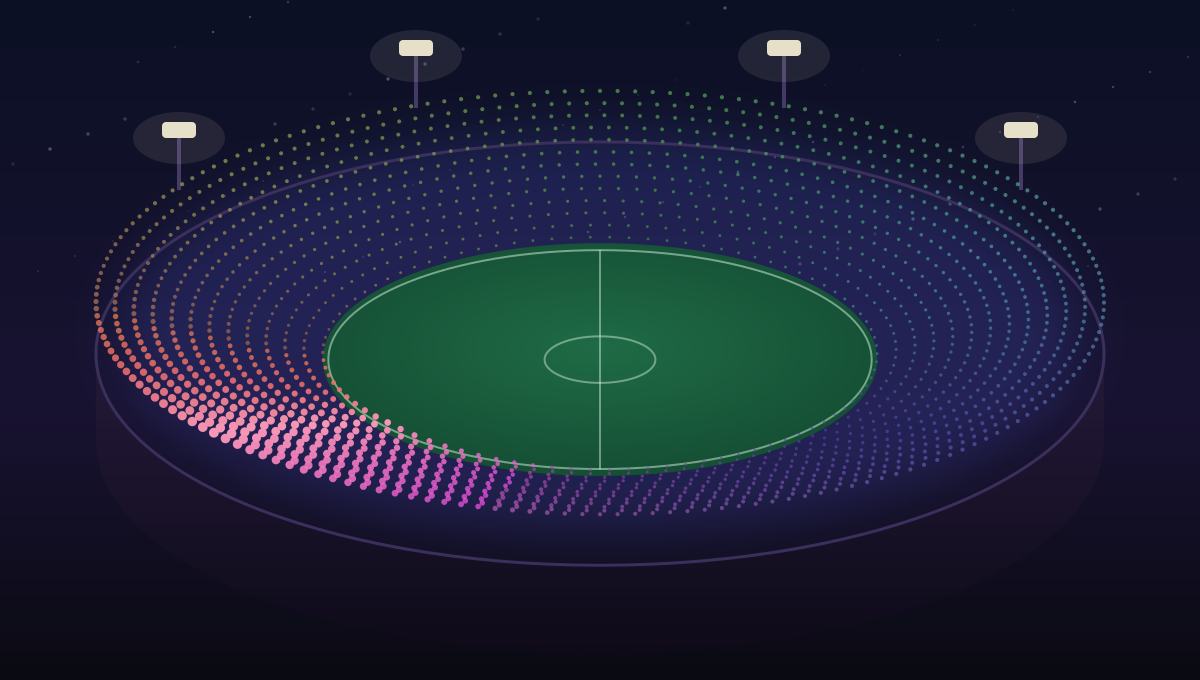
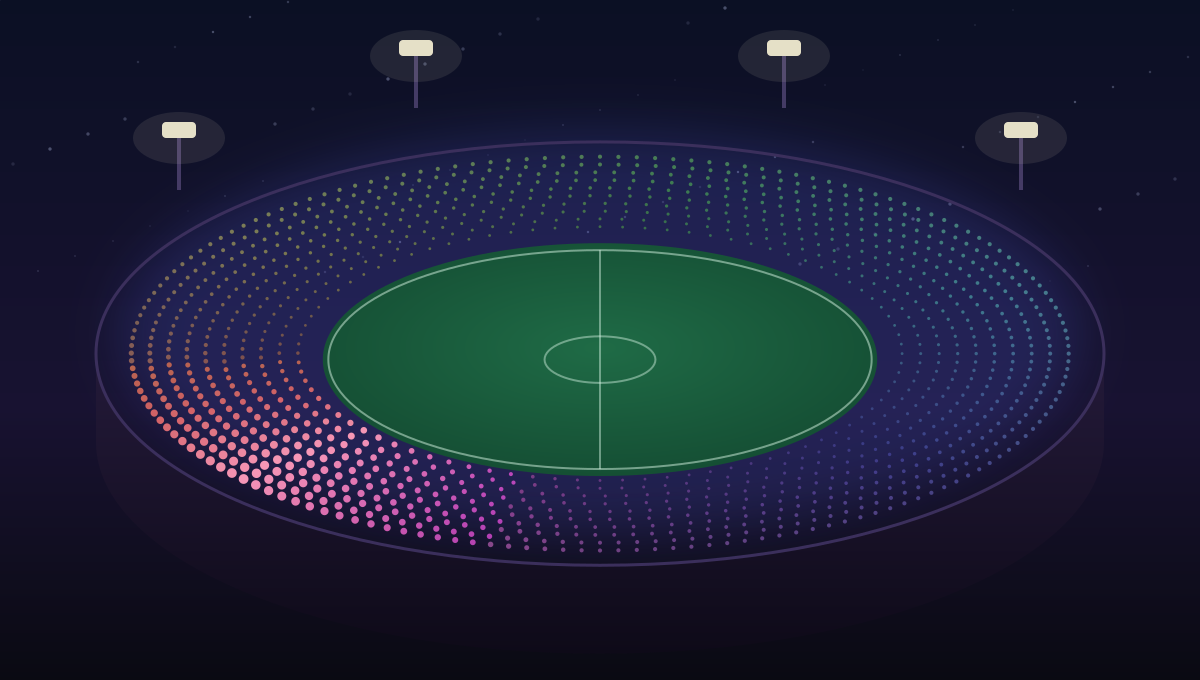
polish the guide: torus figure, unified equation panel, and control affordances
Section headings get real breathing room above them, the mel-transcoder sidebar
gets a bold heading and smaller body, and the equation now shares one dark panel
with its variable legend — symbols stepped up again — so the terms and their
explanations read as a single object.

Adds a torus figure to the section that argues for one: the same phase palette as
the crowd, wrapped onto the surface the grid actually forms, showing that rows
and columns both close on themselves. The stadium seating is re-seated inside the
bowl — no vertical lift, rings bounded by the touchline and the rim — so the far
rows tuck under the far rim and the near rows meet the near one instead of
floating over the pitch.

Controls: primary buttons get a clear hover, sliders get pointer and grab
cursors, and the two buttons that swap their label for Stop hold their width
instead of collapsing mid-click.

diff --git a/src/components/resonant/ResonantArticle.tsx b/src/components/resonant/ResonantArticle.tsx
@@ -9,7 +9,7 @@ const REPO = 'https://github.com/ekryski/resonant'
 const TYPE = [
   'prose-lg',
   'prose-headings:tracking-tight',
-  'prose-h2:mt-0 prose-h2:mb-6 prose-h2:text-5xl prose-h2:font-extrabold sm:prose-h2:text-6xl',
+  'prose-h2:mt-20 prose-h2:mb-6 prose-h2:text-5xl prose-h2:font-extrabold sm:prose-h2:text-6xl',
   'prose-h3:mt-10 prose-h3:mb-3 prose-h3:text-2xl prose-h3:font-bold sm:prose-h3:text-3xl',
   'prose-p:my-4 prose-ul:my-4 prose-ol:my-4 prose-li:my-1.5',
 ].join(' ')
@@ -188,7 +188,7 @@ export function ResonantArticle() {
       <figure className="my-10">
         <div className="panel" style={{ marginBottom: 16 }}>
           <div style={{ display: 'flex', gap: 12, flexWrap: 'wrap', alignItems: 'center' }}>
-            <button type="button" className="action primary" id="melPlayBtn">
+            <button type="button" className="action primary toggle wide" id="melPlayBtn">
               ▶ Play and watch the bands
             </button>
             <span className="tag" id="melPlayStatus">showing the clip average</span>
@@ -253,8 +253,10 @@ export function ResonantArticle() {
 
       <Prose className={TYPE}>
         <div className="my-6 rounded-r-xl border-l-2 border-violet-500 bg-violet-500/5 px-5 py-4 dark:border-violet-400 dark:bg-violet-400/5">
-          <h4>Sidebar: what is a “mel transcoder”?</h4>
-          <p>
+          <h4 className="!mt-0 !mb-3 !text-base !font-bold !tracking-normal !normal-case !text-zinc-800 dark:!text-zinc-100">
+            Sidebar: what is a “mel transcoder”?
+          </h4>
+          <p className="!my-0 !text-[15px] !leading-relaxed">
             A neural network that <em>manufactures</em> a mel spectrogram from something
             coarser. The motivating case is privacy: an always-on sensor in a hospital ward
             or a street can be built to record only very coarse acoustic energy — say
@@ -505,13 +507,14 @@ export function ResonantArticle() {
       </Prose>
 
       <figure className="my-10">
-        <div className="equation">
+        <div className="panel">
+          <div className="equation !border-0 !bg-transparent !p-0 !pb-1">
           dθ<sub>i</sub>/dt = <span className="tDrift">ω<sub>i</sub></span>{' + '}
           <span className="tCouple">Σ<sub>j</sub> K(i−j) · sin(θ<sub>j</sub> − θ<sub>i</sub>)</span>{' − '}
           <span className="tPin">λ · sin(θ<sub>i</sub>)</span>{' + '}
           <span className="tDrive">F<sub>i</sub>(t)</span>
-        </div>
-        <div className="mt-5 grid gap-4 text-[15px] leading-relaxed text-zinc-600 dark:text-zinc-400 [&>div]:grid [&>div]:grid-cols-[112px_1fr] [&>div]:items-start [&>div]:gap-3 [&_b]:font-semibold [&_b]:text-zinc-800 dark:[&_b]:text-zinc-100 [&_span:first-child]:font-mono [&_span:first-child]:text-base [&_span:first-child]:font-semibold">
+          </div>
+          <div className="mt-6 grid gap-4 border-t border-zinc-700/60 pt-6 text-[15px] leading-relaxed text-zinc-300 [&>div]:grid [&>div]:grid-cols-[136px_1fr] [&>div]:items-start [&>div]:gap-4 [&_b]:font-semibold [&_b]:text-white [&_span:first-child]:font-mono [&_span:first-child]:text-xl [&_span:first-child]:font-semibold">
           <div>
             <span className="tDrift">ω</span>
             <span><b>Own tempo.</b> Every oscillator has a natural frequency it would keep on its own. In this demo they are laid out deliberately: each row of the grid is tuned to one band of the speech envelope, from about 0.4 Hz at the bottom to 6 Hz at the top.</span>
@@ -527,6 +530,7 @@ export function ResonantArticle() {
           <div>
             <span className="tDrive">F(t)</span>
             <span><b>The audio.</b> Each mel band’s loudness at this instant, injected into its own row of oscillators. Loud band, hard shove.</span>
+            </div>
           </div>
         </div>
         <figcaption className="mt-4 text-justify text-[13.5px] leading-relaxed text-zinc-500 dark:text-zinc-500 [&_b]:font-semibold [&_b]:text-zinc-600 dark:[&_b]:text-zinc-400">
@@ -589,6 +593,31 @@ export function ResonantArticle() {
           than a 256 × 256 matrix. The physics of the configuration on this page is about
           2,000 numbers.
         </p>
+      </Prose>
+
+      <figure className="my-10">
+        <div className="overflow-hidden rounded-2xl border border-zinc-200 dark:border-zinc-700/50">
+          <Image
+            src="/resonant/torus.png"
+            alt="A torus drawn as a lattice of dots, each coloured by its phase, with a travelling wave wrapping around both the ring and the tube"
+            width={1200}
+            height={720}
+            className="h-auto w-full"
+            unoptimized
+          />
+        </div>
+        <figcaption>
+          <b>Figure 10 — the field on the shape it lives on.</b> The same phase colours as the
+          crowd, now wrapped onto the surface the grid actually forms. Rows run around the
+          tube — that is the frequency axis, low bands to high — and columns run around the
+          ring. Follow any row far enough and you arrive back where you started; the same is
+          true of any column. That is what “periodic in both axes” buys: no oscillator is on
+          an edge, so one small kernel describes every neighbourhood in the field, and the
+          whole coupling step collapses into a single FFT.
+        </figcaption>
+      </figure>
+
+      <Prose className={TYPE}>
 
         <h3>Reading a physical system</h3>
         <p>
@@ -662,7 +691,7 @@ export function ResonantArticle() {
           </svg>
         </div>
         <figcaption className="mt-4 text-justify text-[13.5px] leading-relaxed text-zinc-500 dark:text-zinc-500 [&_b]:font-semibold [&_b]:text-zinc-600 dark:[&_b]:text-zinc-400">
-          <b>Figure 10 — same stack, different middle.</b> The front end and the output heads
+          <b>Figure 11 — same stack, different middle.</b> The front end and the output heads
           are deliberately the most boring possible choices and are shared with the
           conventional control models, so that any difference in results is attributable to
           the core and not to the plumbing around it.
@@ -701,7 +730,7 @@ export function ResonantArticle() {
         </div>
         <ResonantConsole />
         <figcaption className="mt-4 text-justify text-[13.5px] leading-relaxed text-zinc-500 dark:text-zinc-500 [&_b]:font-semibold [&_b]:text-zinc-600 dark:[&_b]:text-zinc-400">
-          <b>Figure 11 — the live console.</b> Three things reward watching. <b>One:</b>{' '}
+          <b>Figure 12 — the live console.</b> Three things reward watching. <b>One:</b>{' '}
           during silence the field still turns, each row at its own tempo — slow at the
           bottom, quick at the top. <b>Two:</b> when the word arrives the driven rows lurch,
           the pattern reorganizes, and the order-parameter traces swing. <b>Three:</b> the

diff --git a/scripts/generate-resonant-og.js b/scripts/generate-resonant-og.js
@@ -5,6 +5,7 @@
  *   public/resonant/og.png            1200x630 social card
  *   public/resonant/field.png         the same art without the baked-in title
  *   public/resonant/stadium.png       the crowd-wave illustration (section 06)
+ *   public/resonant/torus.png         the phase field on its torus (section 06)
  *   src/images/projects/resonant.png  256x256 project-list logo
  *
  * The picture is the guide's argument in one frame: a spoken waveform enters
@@ -156,15 +157,22 @@ function stadium({ width = 1200, height = 680 }) {
   const wallDepth = height * 0.13
   const waveCenter = Math.PI * 0.78     // the wave crest, currently at the near-left
 
-  // seating bowl: concentric rings of fans between the field and the outer wall
+  // Seating bowl: concentric rings that stay strictly between the pitch and the
+  // rim. No vertical lift — the ellipses themselves supply the perspective, so
+  // the far rows tuck under the far rim and the near rows sit against the near
+  // one instead of floating over the grass or above the wall.
   const seats = []
-  const rings = 13
+  const rings = 10
+  const seatInnerRx = innerRx * 1.09    // clear of the touchline
+  const seatInnerRy = innerRy * 1.09
+  const seatOuterRx = outerRx * 0.93    // inside the rim
+  const seatOuterRy = outerRy * 0.93
   for (let r = 0; r < rings; r++) {
     const t = r / (rings - 1)
-    const rx = innerRx + (outerRx - innerRx) * t
-    const ry = innerRy + (outerRy - innerRy) * t
-    const lift = t * height * 0.075     // outer rings sit higher in the bowl
-    const count = Math.round(90 + 90 * t)
+    const rx = seatInnerRx + (seatOuterRx - seatInnerRx) * t
+    const ry = seatInnerRy + (seatOuterRy - seatInnerRy) * t
+    const lift = 0
+    const count = Math.round(84 + 76 * t)
     for (let i = 0; i < count; i++) {
       const a = (i / count) * 2 * Math.PI
       const x = cx + rx * Math.cos(a)
@@ -179,7 +187,7 @@ function stadium({ width = 1200, height = 680 }) {
         ? `hsl(${hue.toFixed(0)}, 85%, ${(58 + 20 * crest).toFixed(0)}%)`
         : `hsl(${hue.toFixed(0)}, 38%, ${(44 + 10 * t).toFixed(0)}%)`
       seats.push(
-        `<circle cx="${x.toFixed(1)}" cy="${(y - crest * 6).toFixed(1)}" r="${rad.toFixed(2)}" fill="${color}" opacity="${(0.62 + 0.38 * crest).toFixed(2)}"/>`,
+        `<circle cx="${x.toFixed(1)}" cy="${(y - crest * 2.5).toFixed(1)}" r="${rad.toFixed(2)}" fill="${color}" opacity="${(0.62 + 0.38 * crest).toFixed(2)}"/>`,
       )
     }
   }
@@ -238,6 +246,69 @@ function stadium({ width = 1200, height = 680 }) {
 </svg>`
 }
 
+/**
+ * The torus figure for "Why a torus": the same phase colours as the stadium
+ * crowd, wrapped onto the surface the oscillators actually live on. Rows run
+ * around the tube (frequency bands), columns around the ring, and both wrap.
+ */
+function torus({ width = 1200, height = 720 }) {
+  const cx = width / 2
+  const cy = height * 0.45
+  const R = 1.0
+  const r = 0.44
+  const tilt = (62 * Math.PI) / 180
+  // the torus spans (R + r) either side, so keep a margin at that half-width
+  const scale = Math.min((width / 2 - 70) / (R + r), (height / 2 - 60) / 1.07)
+
+  const uSteps = 84        // around the ring  (columns)
+  const vSteps = 26        // around the tube  (rows = frequency bands)
+  const dots = []
+  for (let i = 0; i < uSteps; i++) {
+    for (let j = 0; j < vSteps; j++) {
+      const u = (i / uSteps) * 2 * Math.PI
+      const v = (j / vSteps) * 2 * Math.PI
+      const x = (R + r * Math.cos(v)) * Math.cos(u)
+      const y0 = (R + r * Math.cos(v)) * Math.sin(u)
+      const z0 = r * Math.sin(v)
+      const y = y0 * Math.cos(tilt) - z0 * Math.sin(tilt)
+      const depth = y0 * Math.sin(tilt) + z0 * Math.cos(tilt)
+      // a travelling wave: phase advances around the ring and around the tube,
+      // which is what a coupled field on a periodic grid actually looks like
+      const phase = 3 * u + 2 * v
+      const hue = ((((phase % (2 * Math.PI)) + 2 * Math.PI) % (2 * Math.PI)) / (2 * Math.PI)) * 360
+      const near = (depth + 1) / 2                     // 0 far, 1 near
+      dots.push({
+        x: cx + x * scale,
+        y: cy + y * scale,
+        depth,
+        rad: 2.0 + 2.8 * near,
+        color: `hsl(${hue.toFixed(0)}, 82%, ${(44 + 24 * near).toFixed(0)}%)`,
+        opacity: (0.16 + 0.74 * near).toFixed(2),
+      })
+    }
+  }
+  dots.sort((a, b) => a.depth - b.depth)               // painter's algorithm
+
+  return `
+<svg width="${width}" height="${height}" viewBox="0 0 ${width} ${height}" xmlns="http://www.w3.org/2000/svg">
+  <defs>
+    <linearGradient id="tsky" x1="0" y1="0" x2="0" y2="1">
+      <stop offset="0%" stop-color="#0b1024"/>
+      <stop offset="60%" stop-color="#171233"/>
+      <stop offset="100%" stop-color="#0a0a12"/>
+    </linearGradient>
+    <filter id="tglow" x="-40%" y="-40%" width="180%" height="180%">
+      <feGaussianBlur stdDeviation="32"/>
+    </filter>
+  </defs>
+  <rect width="${width}" height="${height}" fill="url(#tsky)"/>
+  <ellipse cx="${cx}" cy="${cy}" rx="${((R + r) * scale * 0.98).toFixed(0)}" ry="${((R + r) * scale * 0.5).toFixed(0)}" fill="#5b6cff" opacity="0.16" filter="url(#tglow)"/>
+  ${dots.map((d) => `<circle cx="${d.x.toFixed(1)}" cy="${d.y.toFixed(1)}" r="${d.rad.toFixed(2)}" fill="${d.color}" opacity="${d.opacity}"/>`).join('')}
+  <text x="${cx}" y="${height - 22}" text-anchor="middle" font-family="${MONO}" font-size="19" letter-spacing="2" fill="#8d96ab">every oscillator has the same neighbourhood — no edges, no corners</text>
+</svg>`
+}
+
+
 async function main() {
   mkdirSync(join(ROOT, 'public', 'resonant'), { recursive: true })
   mkdirSync(join(ROOT, 'src', 'images', 'projects'), { recursive: true })
@@ -257,6 +328,11 @@ async function main() {
     .png()
     .toFile(join(ROOT, 'public', 'resonant', 'stadium.png'))
   console.log(`wrote ${join(ROOT, 'public', 'resonant', 'stadium.png')}`)
+
+  await sharp(Buffer.from(torus({})))
+    .png()
+    .toFile(join(ROOT, 'public', 'resonant', 'torus.png'))
+  console.log(`wrote ${join(ROOT, 'public', 'resonant', 'torus.png')}`)
 
   await sharp(Buffer.from(card({ width: 256, height: 256, compact: true })))
     .png()

diff --git a/src/components/resonant/resonant.css b/src/components/resonant/resonant.css
@@ -128,8 +128,22 @@
   padding: 11px 15px;
   cursor: pointer;
 }
-.resonantGuide .action:hover { border-color: var(--accent); }
+.resonantGuide .action:hover {
+  border-color: var(--accent);
+  background: #1e2534;
+  transform: translateY(-1px);
+}
+.resonantGuide .action:active { transform: translateY(0); }
 .resonantGuide .action.primary { background: var(--accent); border-color: var(--accent); color: #06263c; }
+.resonantGuide .action.primary:hover {
+  background: #a5d8ff;                       /* lighter blue: unmistakably hoverable */
+  border-color: #a5d8ff;
+  box-shadow: 0 6px 18px -6px rgba(124, 196, 255, 0.65);
+}
+/* buttons that swap their label for "Stop" keep their width — a control that
+   resizes under the cursor is jarring and easy to mis-click */
+.resonantGuide .action.toggle { min-width: 15ch; text-align: center; }
+.resonantGuide .action.toggle.wide { min-width: 32ch; }
 .resonantGuide select.action { padding-right: 28px; }
 
 .resonantGuide .dial label {
@@ -139,7 +153,10 @@
   color: var(--muted);
 }
 .resonantGuide .dial label b { color: var(--panel-ink); }
-.resonantGuide input.slider { width: 100%; accent-color: var(--accent); }
+.resonantGuide input.slider { width: 100%; accent-color: var(--accent); cursor: pointer; }
+.resonantGuide input.slider::-webkit-slider-thumb { cursor: grab; }
+.resonantGuide input.slider:active::-webkit-slider-thumb { cursor: grabbing; }
+.resonantGuide input.slider::-moz-range-thumb { cursor: grab; }
 
 .resonantGuide .tag {
   display: inline-block;

diff --git a/src/components/resonant/ResonantConsole.tsx b/src/components/resonant/ResonantConsole.tsx
@@ -47,7 +47,7 @@ export function ResonantConsole() {
             </div>
           </div>
           <div style={{ display: 'flex', gap: 8, marginTop: 14, flexWrap: 'wrap', alignItems: 'center' }}>
-            <button type="button" className="action primary" id="livePlayBtn">▶ Play &amp; run</button>
+            <button type="button" className="action primary toggle" id="livePlayBtn">▶ Play &amp; run</button>
             <button type="button" className="action" id="resetDials">reset</button>
             <select className="action" id="consoleDigit" aria-label="choose which digit to run" />
           </div>
